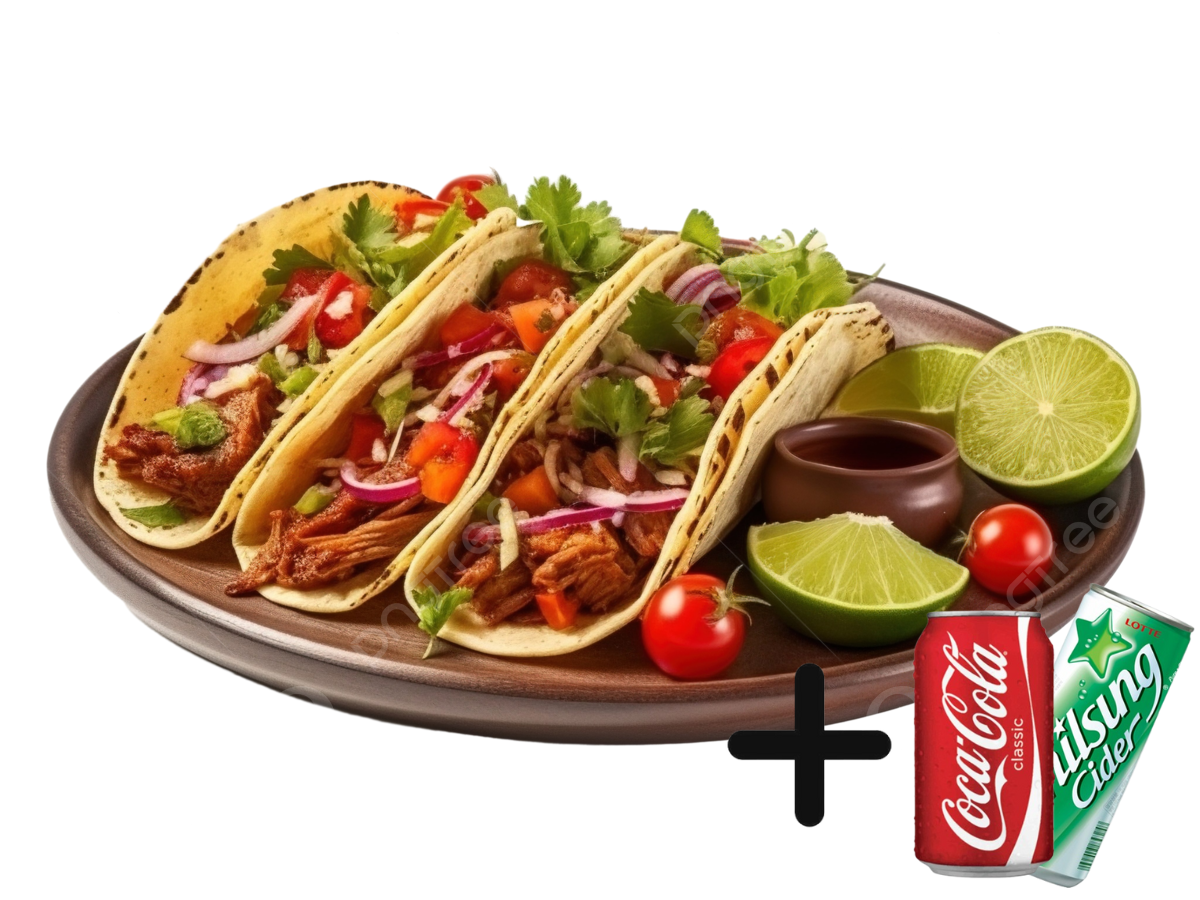
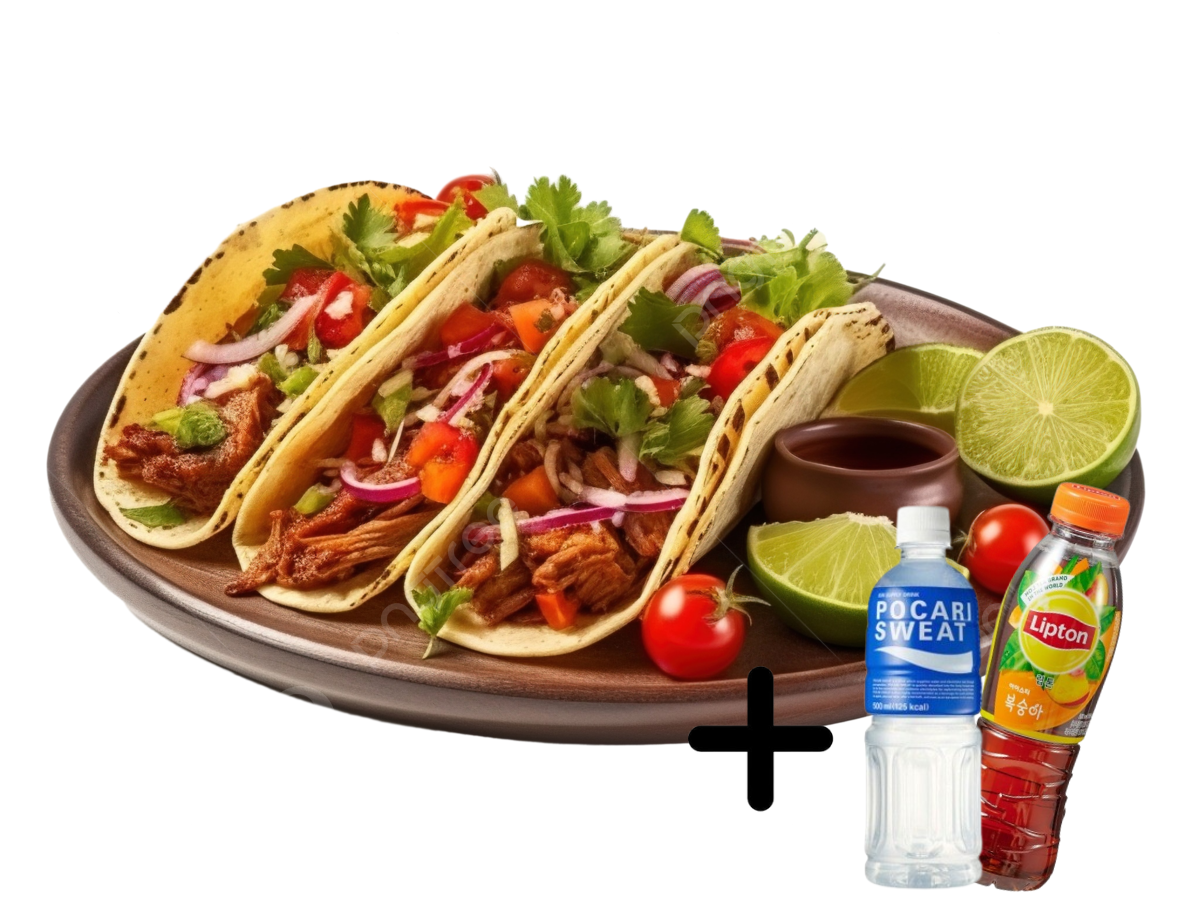
Edit : Drink Menu Pics + main + mainModals.js + messages -> Product.java, ProductController.java, Order.java Prompt : TextProcessingController.java ModbusService.java => 138.102

Changed region(s): [[0.555, 0.5289, 1.0, 0.9956]]

diff --git a/src/main/resources/templates/main/main.html b/src/main/resources/templates/main/main.html
@@ -109,8 +109,8 @@
         <div id="coke" class="menu-card card" style="width: 18rem;">
             <img src="/kiosk/img/mainitemlist/drink_coke.png" class="card-img-top" alt="MenuImage">
             <div class="menu-card-texts card-body">
-                <h5 class="menu-name card-title" th:text="#{coke}">콜라</h5>
-                <p class="menu-info card-text" th:text="#{coke.info}">"달콤한 맛의 대표, 코카콜라."</p>
+                <h5 class="menu-name card-title" th:text="#{coke}">아이스티</h5>
+                <p class="menu-info card-text" th:text="#{coke.info}">"상큼한 복숭아 음료."</p>
                 <p class="menu-price card-text" th:text="#{coke.price}">2,000원</p>
             </div>
         </div>
@@ -118,8 +118,8 @@
         <div id="sprite" class="menu-card card" style="width: 18rem;">
             <img src="/kiosk/img/mainitemlist/drink_cider.png" class="card-img-top" alt="MenuImage">
             <div class="menu-card-texts card-body">
-                <h5 class="menu-name card-title" th:text="#{cider}">사이다</h5>
-                <p class="menu-info card-text" th:text="#{cider.info}">"톡 쏘는 청량감의 칠성사이다."</p>
+                <h5 class="menu-name card-title" th:text="#{cider}">이온음료</h5>
+                <p class="menu-info card-text" th:text="#{cider.info}">"시원한 수분 보충."</p>
                 <p class="menu-price card-text" th:text="#{cider.price}">2,000원</p>
             </div>
         </div>
@@ -211,14 +211,14 @@
                         <input type="checkbox" id="coke-image" class="block-checkbox">
                         <label for="coke-image">
                             <img src="/kiosk/img/productdetail/coke_resize.png" alt="CokeImage">
-                            <span th:text="#{coke}">콜라</span>
+                            <span th:text="#{coke}">아이스티</span>
                         </label>
                     </div>
                     <div class="block cider-block">
                         <input type="checkbox" id="cider" class="block-checkbox">
                         <label for="cider">
                             <img src="/kiosk/img/productdetail/cider_resize.png" alt="CiderImage">
-                            <span th:text="#{cider}">사이다</span>
+                            <span th:text="#{cider}">이온음료</span>
                         </label>
                     </div>
                 </div>

diff --git a/src/main/resources/static/kiosk/js/mainModals.js b/src/main/resources/static/kiosk/js/mainModals.js
@@ -117,11 +117,11 @@ document.addEventListener("DOMContentLoaded", function() {
 
     // 음료 메뉴 카드 클릭 이벤트 리스너 추가
     cokeCard.addEventListener("click", function() {
-        handleDrinkClick("콜라");
+        handleDrinkClick("아이스티");
     });
 
     spriteCard.addEventListener("click", function() {
-        handleDrinkClick("사이다");
+        handleDrinkClick("이온음료");
     });
 
     // 모달 열릴 때 dimmed 클래스 추가 및 제거
@@ -267,18 +267,18 @@ function handleDrinkClick(drinkName) {
     // 음료 데이터 설정
     let productData = {};
 
-    if (drinkName === "콜라") {
+    if (drinkName === "아이스티") {
         productData = {
-            productName: "콜라",
-            description: "달콤한 맛의 대표, 코카콜라.",
+            productName: "아이스티",
+            description: "상큼한 복숭아 음료.",
             price: 2000,
             selectedOptions: {}, // 옵션이 없으므로 빈 객체
             quantity: 1 // 기본 수량 1
         };
-    } else if (drinkName === "사이다") {
+    } else if (drinkName === "이온음료") {
         productData = {
-            productName: "사이다",
-            description: "톡 쏘는 청량감의 칠성사이다.",
+            productName: "이온음료",
+            description: "시원한 수분 보충",
             price: 2000,
             selectedOptions: {}, // 옵션이 없으므로 빈 객체
             quantity: 1 // 기본 수량 1
@@ -354,12 +354,12 @@ document.addEventListener("DOMContentLoaded", function() {
                     <div style="margin-top: 20px;">
                 </div>
             `;
-        }, 5000);
+        }, 2000);
 
         // 추가 3초 후에 홈 화면으로 이동
         setTimeout(function() {
             window.location.href = '/'; // 홈 화면의 URL로 변경하세요.
-        }, 8000);
+        }, 5000);
     });
 });
 

diff --git a/src/main/java/taco/rbiz/domain/service/ModbusService.java b/src/main/java/taco/rbiz/domain/service/ModbusService.java
@@ -25,6 +25,7 @@ public class ModbusService {
 
     @Value("${master.ip}")
     private String MASTER_IP; // Master IP
+//    private static final String MASTER_IP = "192.168.138.102";
 
     private static final int MASTER_PORT = 502; // Modbus TCP 기본 포트
     private static final int SLAVE_ID = 255; // Slave ID
@@ -80,14 +81,15 @@ public class ModbusService {
                         // 수신 가능 상태
                         Order order = orderQueue.pollOrder(); // 큐에서 주문 가져오기
                         if (order != null) {
-                            // wait(100) 밀리초 (필요에 따라 추가)
+                            Thread.sleep(100);
+
+                            // 주문 정보 전송 (101 ~ 112)
+                            sendOrderToModbus(order);
+
                             Thread.sleep(100);
 
                             // 주소 100에 flag 1로 설정
                             master.writeSingleRegister(SLAVE_ID, 100, new SimpleRegister(1));
-
-                            // 주문 정보 전송 (101 ~ 112)
-                            sendOrderToModbus(order);
 
                             log.info("Order sent to Modbus: {}", order.getId());
                         }
@@ -106,7 +108,7 @@ public class ModbusService {
         }
     }
 
-    private void sendOrderToModbus(Order order) throws ModbusException {
+    private void sendOrderToModbus(Order order) throws ModbusException, InterruptedException {
         // 최대 4개의 제품 단위를 처리하기 위한 배열 초기화
         int[] productCodes = {5, 5, 5, 5}; // 기본값 5
         int[] saladOptions = {8, 8, 8, 8}; // 기본값 1로 변경
@@ -134,18 +136,21 @@ public class ModbusService {
         for (int i = 0; i < 4; i++) {
             log.info("Product Code {}: {}", i, productCodes[i]);
             master.writeSingleRegister(SLAVE_ID, 101 + i, new SimpleRegister(productCodes[i]));
+            Thread.sleep(100);
         }
 
         // 주소 105~108에 샐러드 옵션 전송
         for (int i = 0; i < 4; i++) {
             log.info("Salad Option {}: {}", i, saladOptions[i]);
             master.writeSingleRegister(SLAVE_ID, 105 + i, new SimpleRegister(saladOptions[i]));
+            Thread.sleep(100);
         }
 
         // 주소 109~112에 음료 옵션 전송
         for (int i = 0; i < 4; i++) {
             log.info("Drink Option {}: {}", i, drinkOptions[i]);
             master.writeSingleRegister(SLAVE_ID, 109 + i, new SimpleRegister(drinkOptions[i]));
+            Thread.sleep(100);
         }
     }
 
@@ -206,15 +211,14 @@ public class ModbusService {
         }
     }
 
-
     private int getDrinkOptionCode(Product product) {
         Map<String, Object> options = product.getOptions();
         Object drinkOption = options.get("drink");
 
         if (drinkOption != null) {
-            if (drinkOption.equals("콜라")) {
+            if (drinkOption.equals("아이스티")) {
                 return 1;
-            } else if (drinkOption.equals("사이다")) {
+            } else if (drinkOption.equals("이온음료")) {
                 return 2;
             }
         }

diff --git a/src/main/java/taco/rbiz/domain/model/Order.java b/src/main/java/taco/rbiz/domain/model/Order.java
@@ -18,7 +18,7 @@ public class Order {
     private String paymentMethod; // 결제 방법, "cash" 또는 "credit"
     private boolean receipt; // 영수증 출력 여부
     private LocalDateTime orderTime; // 주문 시간
-    private double totalPrice; // 주문 총액
+    private Integer totalPrice; // 주문 총액
     private Integer totalQuantity; // 주문 총 수량
 
     public Order() {
@@ -26,7 +26,7 @@ public class Order {
         this.orderTime = LocalDateTime.now();
     }
 
-    public Order(List<Product> products, boolean takeout, String paymentMethod, boolean receipt, double totalPrice, Integer totalQuantity) {
+    public Order(List<Product> products, boolean takeout, String paymentMethod, boolean receipt, Integer totalPrice, Integer totalQuantity) {
         this();
         this.products = products;
         this.takeout = takeout;

diff --git a/src/main/java/taco/rbiz/domain/model/Product.java b/src/main/java/taco/rbiz/domain/model/Product.java
@@ -16,7 +16,7 @@ public class Product {
     private String id;
     private String productName;
     private String description;
-    private double price;
+    private int price;
     private Map<String, Object> options = new HashMap<>();
     private int quantity;
 
@@ -25,7 +25,7 @@ public class Product {
         this.id = UUID.randomUUID().toString();
     }
 
-    public Product(String productName, String description, double price, Map<String, Object> options, int quantity) {
+    public Product(String productName, String description, int price, Map<String, Object> options, int quantity) {
         this();
         this.productName = productName;
         this.description = description;

diff --git a/src/main/java/taco/rbiz/web/controller/util/TextProcessingController.java b/src/main/java/taco/rbiz/web/controller/util/TextProcessingController.java
@@ -111,7 +111,7 @@ public class TextProcessingController {
                 "<규칙>\n" +
                 "1. 무조건 질문에 사용된 언어로 답변해야 한다. 예를 들어, 영어로 질문하면 답변도 무조건 영어이어야 한다.\n" +
                 "2. 답변을 너무 길게 하면 안된다.\n" +
-                "3. 매장에서 고객을 응대하는 것처럼 친절한 말투로 답변해야 한다.";
+                "3. 매장에서 고객을 응대하는 것처럼 친절한 말투로 답변해야 한다.\n";
 
         JSONObject systemMessage = new JSONObject();
         systemMessage.put("role", "system");

diff --git a/src/main/java/taco/rbiz/web/controller/ProductController.java b/src/main/java/taco/rbiz/web/controller/ProductController.java
@@ -28,7 +28,8 @@ public class ProductController {
         Product product = new Product();
         product.setProductName((String) payload.get("productName"));
         product.setDescription((String) payload.get("description"));
-        product.setPrice(Double.parseDouble(payload.get("price").toString()));
+        product.setPrice(Integer.parseInt(payload.get("price").toString()));
+        log.info(String.valueOf(product.getPrice()));
 
         Map<String, Object> options = (Map<String, Object>) payload.get("selectedOptions");
 //        if (options == null) {

diff --git a/src/main/java/taco/rbiz/web/controller/CartController.java b/src/main/java/taco/rbiz/web/controller/CartController.java
@@ -66,7 +66,7 @@ public class CartController {
     public ResponseEntity<Map<String, Object>> getCartSummary(HttpSession session) {
         Cart cart = (Cart) session.getAttribute("userCart");
         int totalQuantity = 0;
-        double totalPrice = 0.0;
+        int totalPrice = 0;
         if (cart != null) {
             for (Product product : cart.getItems()) {
                 totalQuantity += product.getQuantity();

diff --git a/src/main/java/taco/rbiz/domain/model/Cart.java b/src/main/java/taco/rbiz/domain/model/Cart.java
@@ -17,8 +17,8 @@ public class Cart {
         items.add(product);
     }
 
-    public double getTotalPrice() {
-        return items.stream().mapToDouble(Product::getPrice).sum();
+    public int getTotalPrice() {
+        return items.stream().mapToInt(Product::getPrice).sum();
     }
 
     public int getTotalQuantity() {
